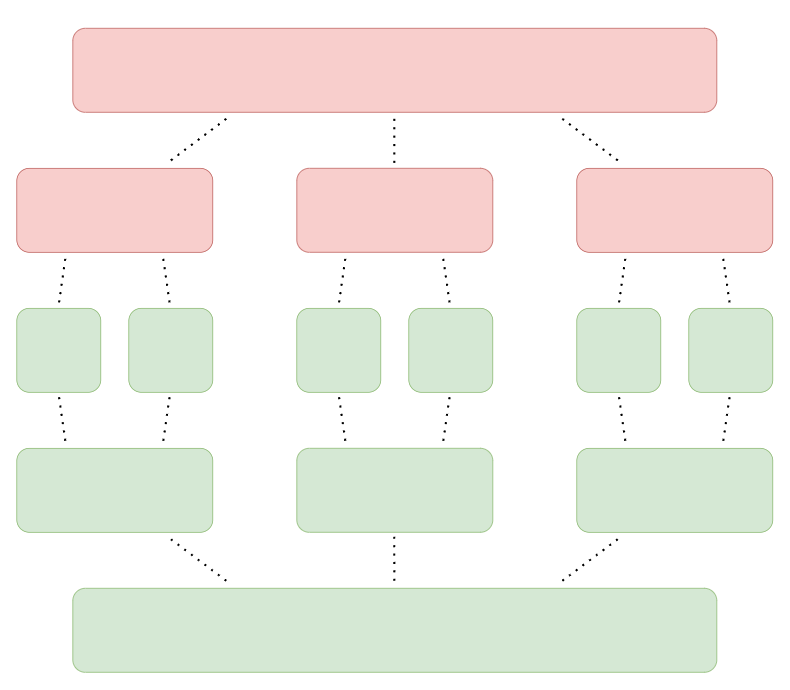
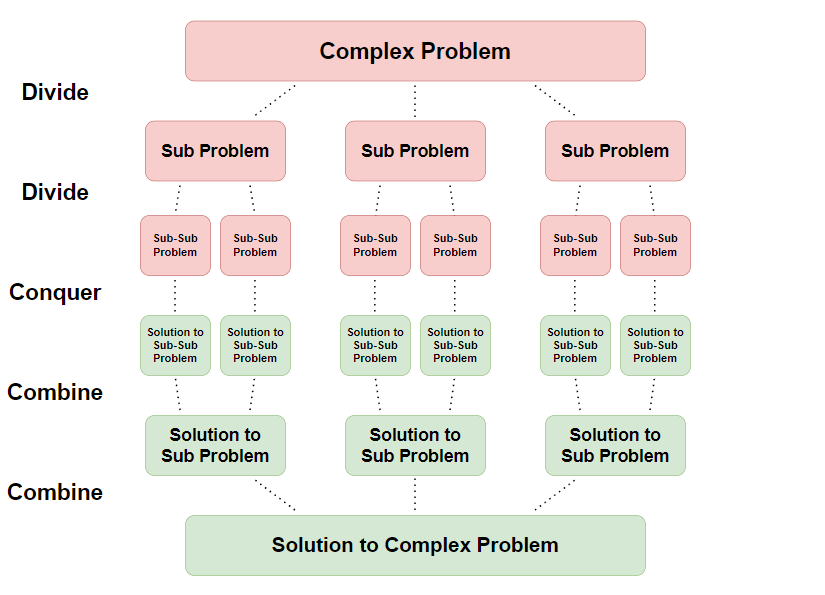
Add in 'DivideAndConquer': full overview, implementation.

diff --git a/Algorithms/DivideAndConquer/DivideAndConquer.md b/Algorithms/DivideAndConquer/DivideAndConquer.md
@@ -15,10 +15,26 @@
 **Divide and Conquer** is a widely used problem-solving strategy in computer science to solve complex problems by breaking them down into simpler ones. It helps to design elegant and efficient algorithms for all manner of applications, making it important to truly understand the concept.
 <p align="center"><img src="./img/DivideAndConquer.png"/></p>
 
+---
+**Essential Terminology (in the DSA context):**
+- **Problem** — is a task or challenge that requires a solution, typically defined by a set of inputs, constraints, and desired outputs. It can vary in complexity and scope, ranging from simple arithmetic calculations to complex optimization tasks.
+  - **Sub Problem** — is a smaller, more manageable instance of the original problem.
+- **Problem-Solving Strategy** — is a method of approaching a problem to find a solution.
+- **Divide and Conquer** — is a strategy that consists of 3 steps: 
+  1. **Divide** — brake down original problem into smaller, more manageable sub-problems.
+  2. **Conquer** — solve each sub-problem independently.
+  3. **Combine** — combine those solutions to form solution to the original problem.
+- **Decrease and Conquer** — is a variation, which leaves only required subproblem and discards other, that are not considered further in the solution process because they don't contain the solution to the original problem, therefore this approach just simply reduces the size of the original problem; e.g. binary search divides problem in halves, but search occurs only in one.
+
 
 
 # &#x1F4BB; Implementation
-Currently in Progress...
+The list of known divide and conquer algorithms is extensive and continues to grow. When it comes to implementation, some share some common ideas, while others possess distinctive characteristics. The choice between them depends on the specific requirements of the cases at hand. Generally, there are lot of ways to achieve behavior of this approach, most used of them are:
+- **Recursion** — solves each sub-problem either by recursively dividing again or if small enough solves directly; e.g. merge sort.
+- **Iteration** — divides the problem in each iteration of the loop until original problem is solved; e.g. binary search.
+- **Dynamic Programming** — stores and reuses solutions to sub-problems to avoid redundant computations, particularly useful when there are overlapping sub-problems; e.g. matrix chain multiplication.
+
+> Personal note: Since you can observe the ideas of Divide and Conquer in many other approaches (probably due to its extremely general steps), it could be quite confusing to determine which specific implementation is being considered. In most cases I have encountered, Divide and Conquer is associated with recursion. Therefore, I recommend associating it as the default approach, but not limiting your design thinking only to it.
 
 
 
